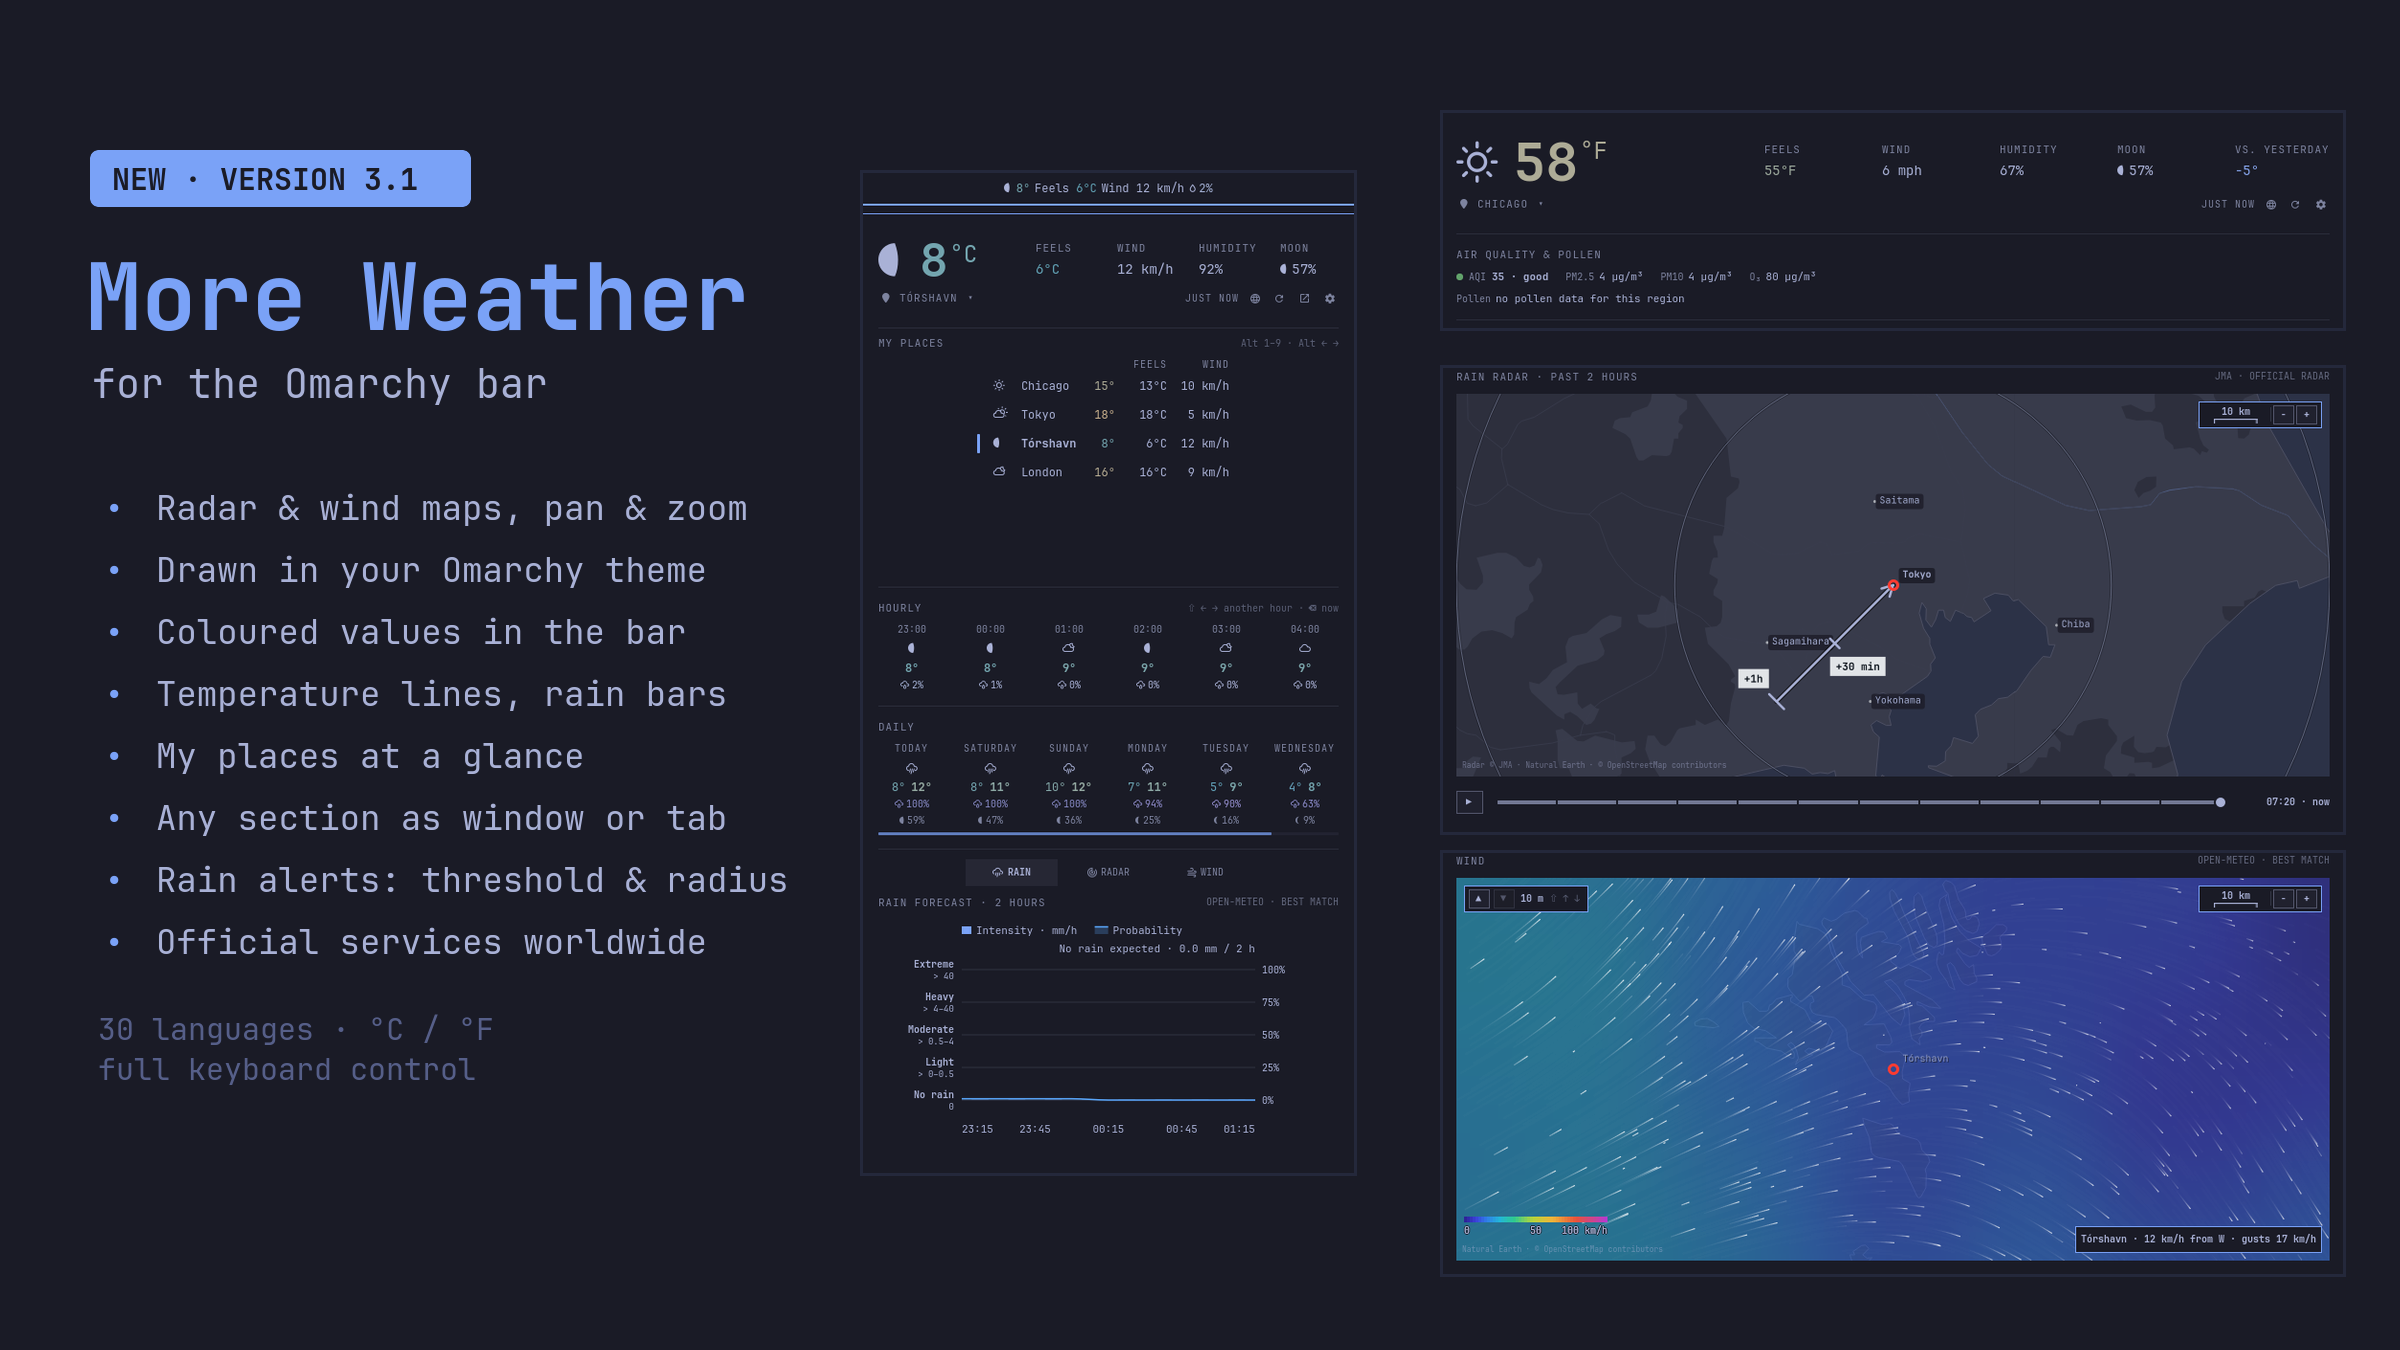
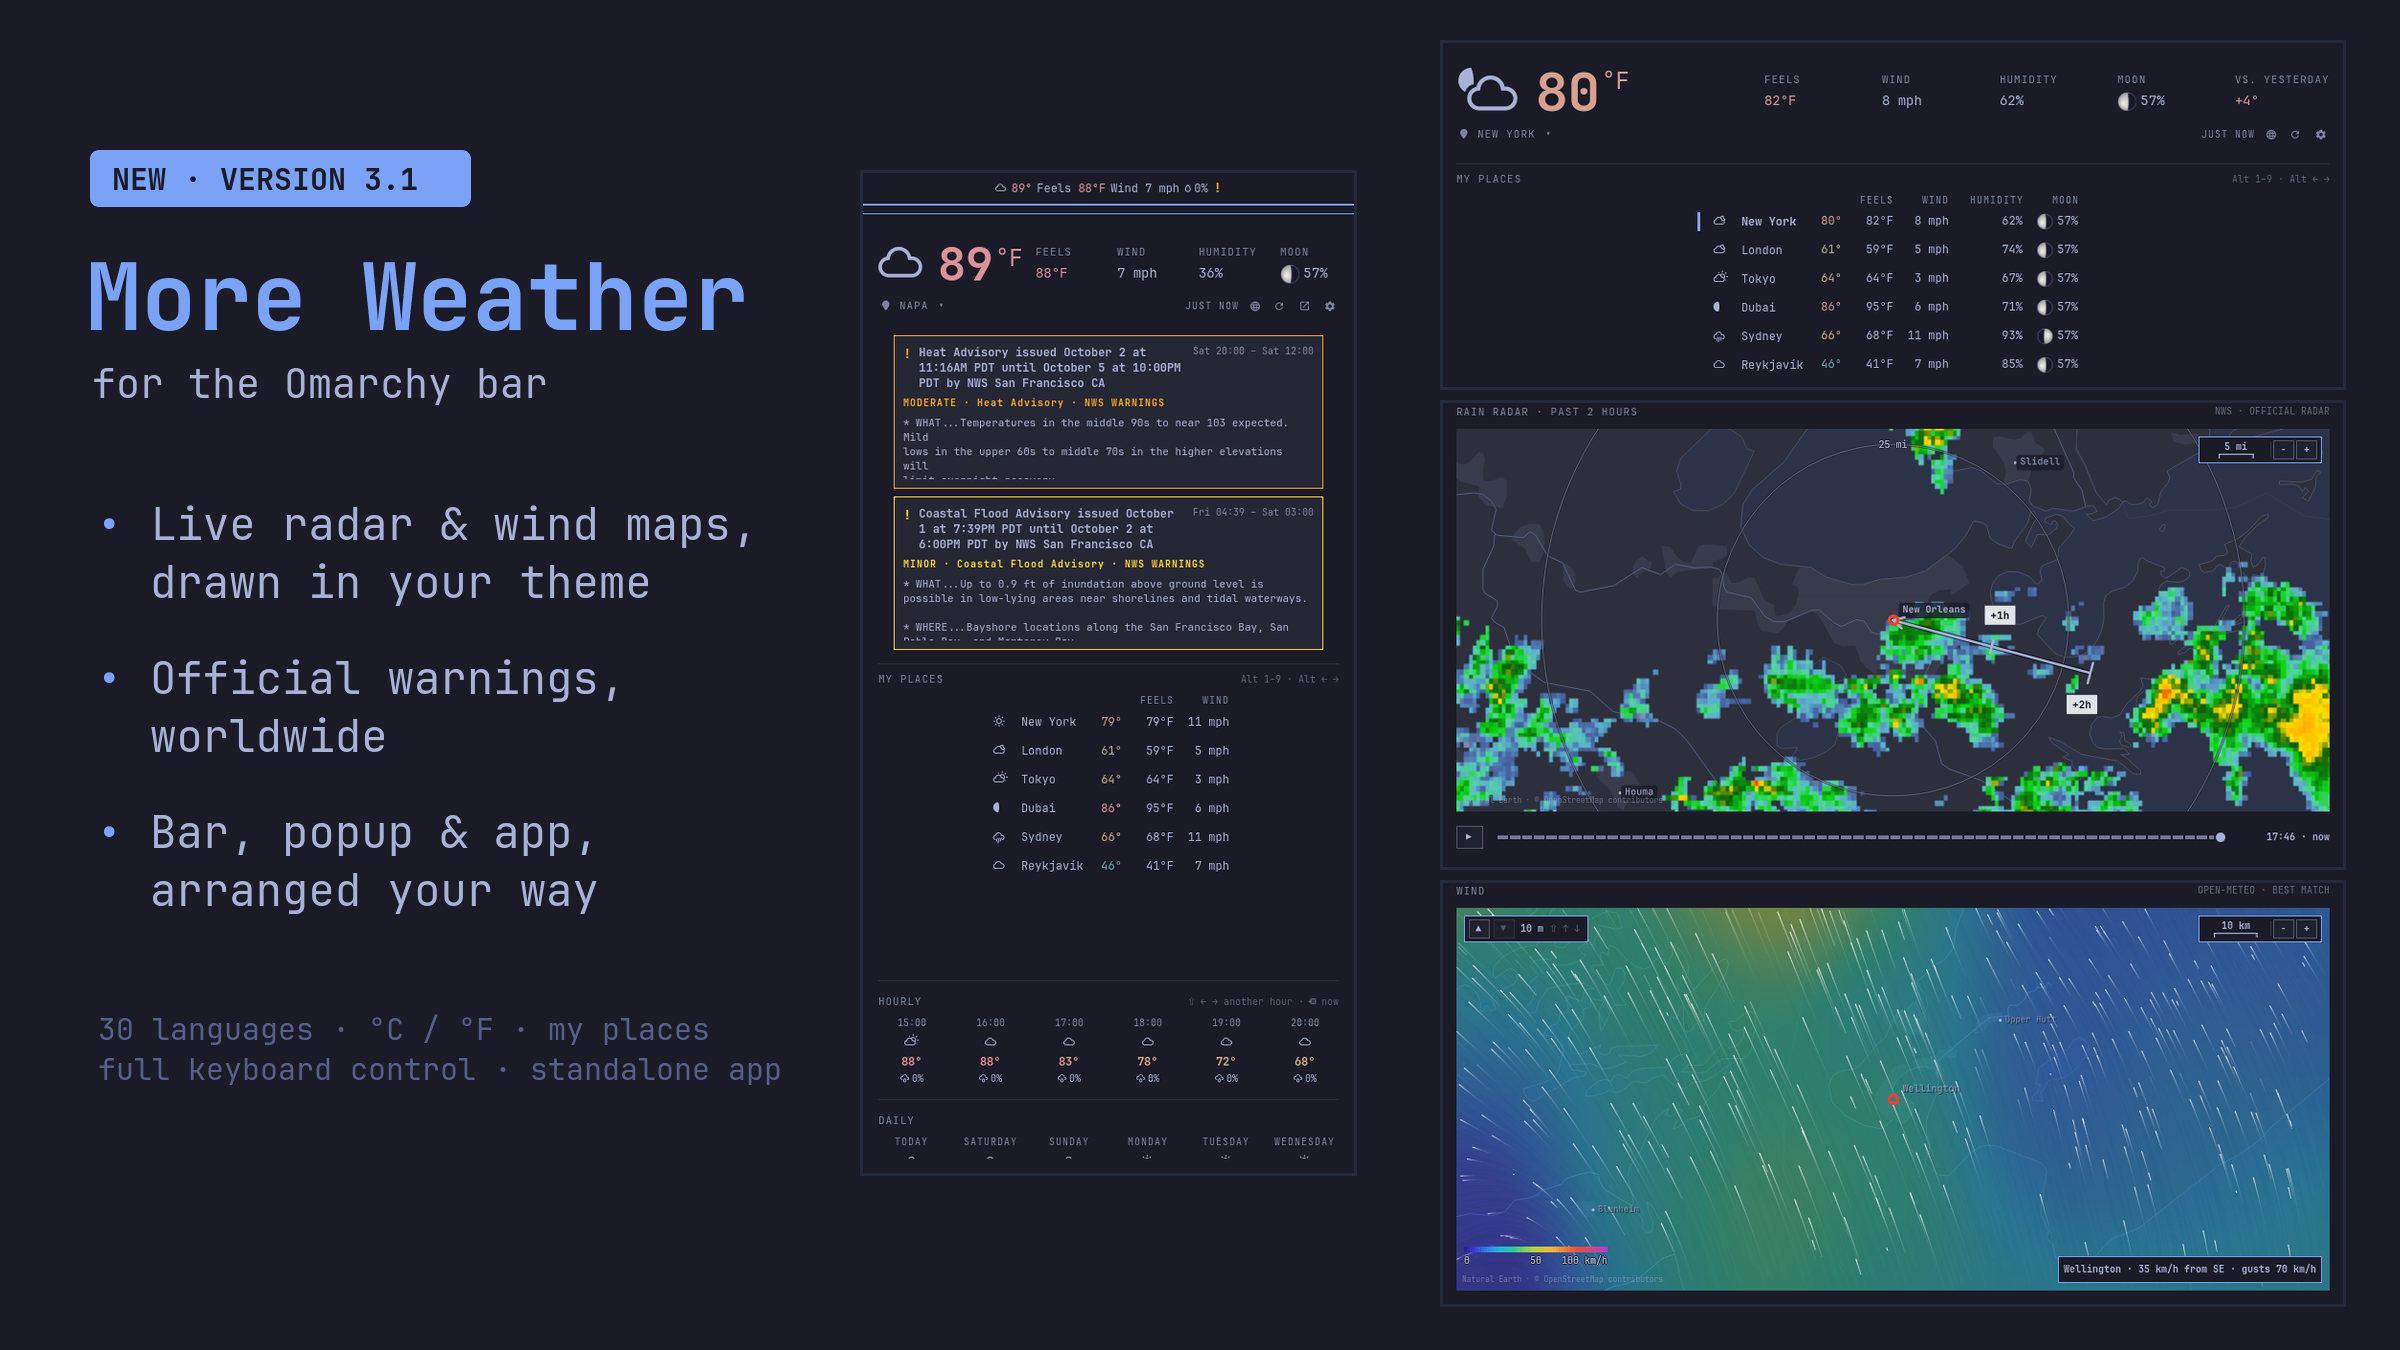
Showcase screenshots from live data, preview for 3.1
Napa with the NWS heat advisory, New Orleans radar, Wellington wind,
My places, the coloured menu bar, the menu bar settings.

diff --git a/tests/ui/showcase.qml b/tests/ui/showcase.qml
@@ -4,12 +4,24 @@ import qs.Commons
 import "Weather" as Weather
 
 // The README pictures (tests/ui-showcase.sh): live data, the app at
-// 941 × 1150, the widget at 480 wide, and the menu bar. Each scene waits
-// for its data; a step is 1.2 s.
+// 941 × 1150, the widget at 480 wide, and the menu bar. MW_SCENES lists the
+// scenes, separated by ";", each "file|kind|place|latitude|longitude":
+//   top       the app from the top (current weather, warnings, hours)
+//   places    the app from the top with my places in the window
+//   radar     the radar tab, scrolled to the end
+//   wind      the wind tab, scrolled to the end
+//   settings  Settings → Display → Menu bar at "Colour the values" (no place)
+//   general   Settings → General (no place needed)
+//   sources   Settings → Sources (no place needed)
+//   widget    the widget's view and, as "<file>-bar", the menu bar
+// A step is 1.2 s; each place gets half a minute for its data. My places
+// fill from the bar's own panel, a few seconds per place: put "places"
+// late.
 ShellRoot {
   id: harness
   readonly property string shots: Quickshell.env("MW_SHOTS") || "/tmp"
   property int step: 0
+  property var steps: []
 
   function shot(name, item) {
     (item || panel.contentRoot.parent.parent).grabToImage(function(result) {
@@ -24,58 +36,76 @@ ShellRoot {
   function press(key) {
     panel.handlePanelKey({ key: key, text: "", modifiers: Qt.NoModifier, accepted: false })
   }
-  function wait(seconds) {
-    var list = []
+  function wait(list, seconds) {
     for (var i = 0; i < Math.ceil(seconds / 1.2); i++) list.push(function() {})
-    return list
+  }
+  function goTo(place, lat, lon) {
+    panel.settingsOpen = false
+    panel.pickSuggestion({ name: place, latitude: Number(lat), longitude: Number(lon) })
   }
 
-  readonly property var steps: [].concat(
-    [function() {
+  function scene(list, spec) {
+    var part = spec.split("|")
+    var file = part[0], kind = part[1], place = part[2], lat = part[3], lon = part[4]
+    if (kind === "settings" || kind === "general" || kind === "sources") {
+      list.push(function() {
+        panel.openSettings(kind === "settings" ? "display" : kind)
+        if (kind === "settings") panel.settingsTargetSurface = "menubar"
+      })
+      wait(list, 2)
+      // Menu bar: down to "Colour the values", the card scrolled into view.
+      if (kind === "settings")
+        list.push(function() { for (var i = 0; i < 23; i++) press(Qt.Key_Down) })
+      wait(list, 2)
+      list.push(function() { shot(file) }, function() { panel.settingsOpen = false })
+      return
+    }
+    if (kind === "widget") {
+      list.push(function() {
+        goTo(place, lat, lon)
+        panel.standaloneMode = false
+        panel.activeTab = "rain"
+        panel.contentRoot.parent = widgetHost
+      })
+      wait(list, 30)
+      list.push(function() { press(Qt.Key_Home) }, function() { shot(file) },
+        function() { shot(file + "-bar", barHost) })
+      return
+    }
+    list.push(function() {
+      onSurface("app", "favoritesAsTab", kind !== "places")
+      goTo(place, lat, lon)
+    })
+    wait(list, 30)
+    if (kind === "radar" || kind === "wind") {
+      list.push(function() { panel.showTab(kind) })
+      wait(list, 12)
+      list.push(function() { press(Qt.Key_End) })
+    } else {
+      list.push(function() { press(Qt.Key_Home) })
+    }
+    wait(list, 2)
+    list.push(function() { shot(file) })
+  }
+
+  Component.onCompleted: {
+    var list = [function() {
       panel.contentRoot.parent = appHost
-      // My places as a tab beside rain, radar and wind (the Tokyo scene).
-      onSurface("app", "favoritesAsTab", true)
       onSurface("app", "showFavorites", true)
       onSurface("app", "showAirQuality", true)
-    }],
-    wait(30),
-    // Chicago in °F (with a warning when NWS has one), from the top.
-    [function() { press(Qt.Key_Home) }, function() { shot("chicago") }],
-    // Settings: General and Sources.
-    [function() { panel.openSettings("general") }],
-    wait(2),
-    [function() { shot("settings") }, function() { panel.settingsPage = "sources" }],
-    wait(2),
-    [function() { shot("sources") }, function() { panel.settingsOpen = false }],
-    // Tokyo's radar: the JMA radar under the tab strip.
-    [function() { panel.showFavorite(1) }],
-    wait(20),
-    [function() { panel.showTab("radar") }],
-    wait(12),
-    [function() { press(Qt.Key_End) }, function() { shot("tokyo-radar") }],
-    // Tórshavn's wind map.
-    [function() { panel.showFavorite(2) }],
-    wait(20),
-    [function() { panel.showTab("wind") }],
-    wait(10),
-    [function() { press(Qt.Key_End) }, function() { shot("torshavn-wind") }],
-    // The widget's view (as in the bar's popup) and the menu bar with
-    // coloured values above it.
-    [function() {
-      panel.settingsOpen = false
+      onSurface("app", "favoritesMoon", true)
       onSurface("menubar", "currentFeelsLike", true)
       onSurface("menubar", "currentWind", true)
       onSurface("menubar", "menubarAccents", "always")
-      panel.standaloneMode = false
-      panel.activeTab = "rain"
-      panel.contentRoot.parent = widgetHost
+      // The bar's own panel fetches the saved places' forecasts for my
+      // places (the app reads them from the shared cache).
       barHost.active = true
-    }],
-    wait(12),
-    [function() { press(Qt.Key_Home) }, function() { shot("widget") },
-      function() { shot("bar", barHost) },
-      function() { Qt.quit() }]
-  )
+    }]
+    var scenes = String(Quickshell.env("MW_SCENES") || "").split(";")
+    for (var i = 0; i < scenes.length; i++) if (scenes[i] !== "") scene(list, scenes[i])
+    list.push(function() { Qt.quit() })
+    steps = list
+  }
 
   Timer {
     interval: 1200
@@ -112,6 +142,7 @@ ShellRoot {
     }
   }
 
+  // The menu bar.
   FloatingWindow {
     visible: true
     implicitWidth: 900
@@ -121,7 +152,6 @@ ShellRoot {
     Rectangle {
       id: barHost
       property alias active: barLoader.active
-      readonly property alias item: barLoader.item
       anchors.fill: parent
       color: Color.bar ? Color.bar.background : Color.popups.background
 

diff --git a/README.md b/README.md
@@ -122,13 +122,13 @@ runs as a standalone app window.
 
 ## Screenshots
 
-| Chicago in °F, air quality and the week | Tokyo, JMA radar under the tab strip | Tórshavn, wind map |
+| Napa in a heat wave, with the NWS Heat Advisory | Storms over New Orleans on the NWS radar | Wellington in a gale, gusts of 70 km/h |
 |---|---|---|
-| ![Chicago](screenshots/chicago.png) | ![Tokyo radar](screenshots/tokyo-radar.png) | ![Tórshavn wind](screenshots/torshavn-wind.png) |
+| ![Napa](screenshots/napa.png) | ![New Orleans radar](screenshots/new-orleans-radar.png) | ![Wellington wind](screenshots/wellington-wind.png) |
 
-| Menu bar with coloured values, and the widget | Settings | Data sources |
+| My places: six cities at a glance | The menu bar in colour, over the widget | Each bar entry: Always, Relevant or Hover |
 |---|---|---|
-| ![Menu bar and widget](screenshots/menubar-widget.png) | ![Settings](screenshots/settings.png) | ![Sources](screenshots/sources.png) |
+| ![My places](screenshots/my-places.png) | ![Menu bar and widget](screenshots/menubar-widget.png) | ![Settings](screenshots/settings.png) |
 
 ## Keyboard
 
@@ -329,9 +329,10 @@ tests/qml-syntax.sh    # every QML file parses (qmllint)
 tests/ui-shots.sh /tmp/shots    # screenshots of every view, offscreen
 ```
 
-`tests/ui-showcase.sh` takes the pictures above from live data (Chicago, Tokyo,
-Tórshavn and London as places, the current theme), and `tools/build-preview.sh
-<its output directory>` puts `screenshots/` and `preview.png` together from them.
+`tests/ui-showcase.sh` takes the pictures above from live data (six famous
+cities as places, the current theme, the scenes given in `MW_SCENES`), and
+`tools/build-preview.sh <its output directory>` puts `screenshots/` and
+`preview.png` together from them; its header lists the scenes it expects.
 The version appears in `manifest.json` and in the user agent of
 `WeatherRequest.qml` and `WeatherImageStore.qml` (`more-weather/<major.minor>`).
 

diff --git a/CHANGELOG.md b/CHANGELOG.md
@@ -99,9 +99,11 @@ In detail:
 - The bar widget's hover (entries on hover, open on hover and closing again,
   the latch while the popup maps under the pointer) moved into
   `WeatherBarHover.qml`, shared with More Time; behaviour unchanged.
-- New README pictures and `preview.png`, from live data:
-  `tests/ui-showcase.sh` takes them, `tools/build-preview.sh` puts them
-  together.
+- New README pictures and `preview.png`, from live data: Napa under an NWS
+  Heat Advisory, storms over New Orleans on the NWS radar, Wellington's wind
+  in a gale, my places with six world cities, the coloured menu bar over the
+  widget, and the menu bar settings. `tests/ui-showcase.sh` takes them,
+  `tools/build-preview.sh` puts them together.
 - Development: the popup moved into `WeatherPopup.qml`, loaded only in the
   bar, so the panel also loads offscreen. `tests/ui-shots.sh` shoots every
   view offscreen with synthetic weather and no network
